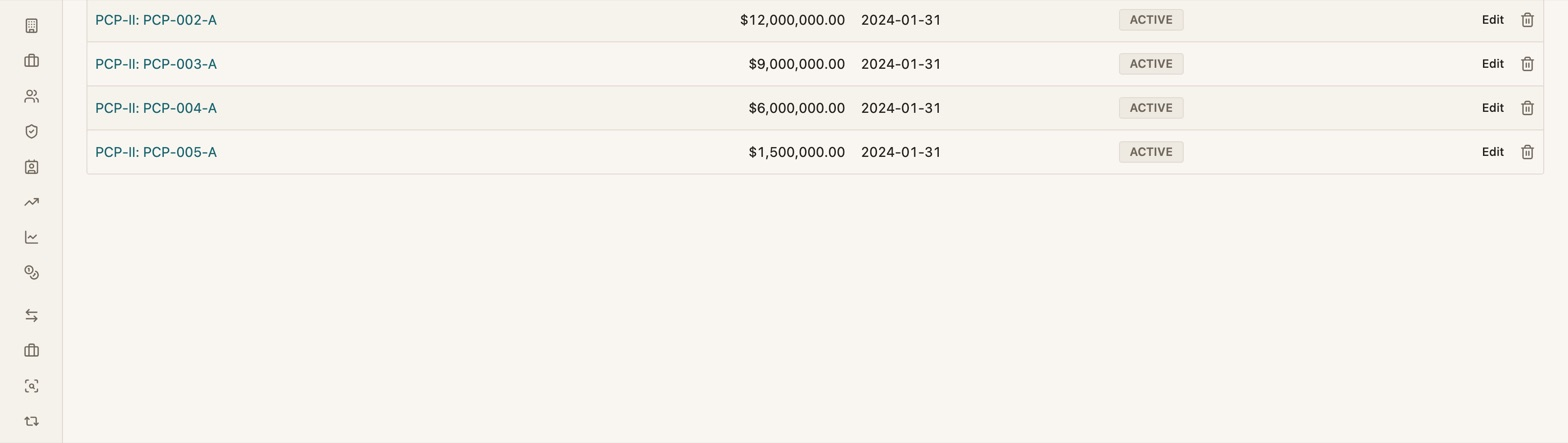
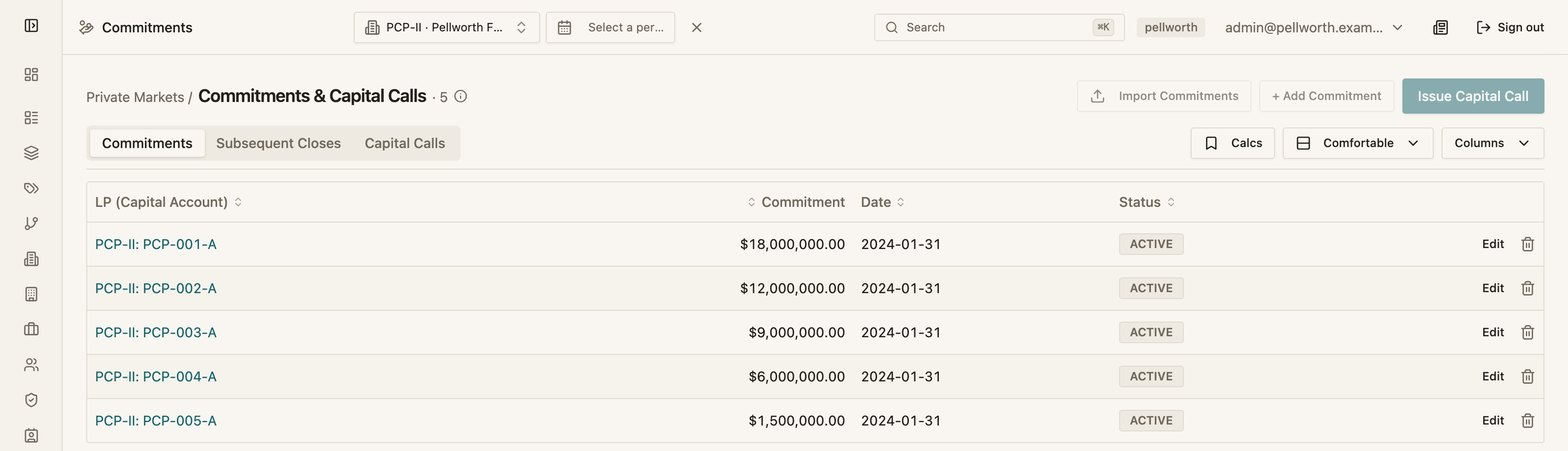
Three more screenshots carried the old tenant name, and three were cropped off-centre
The re-shoot published earlier today covered four images. Three more - the
balance sheet, the gross-to-net fee disclosure and the ILPA capital account -
came from the same tenant and were missed, because the index that mapped shots
to tenants did not record them. They were live on the private-equity and
fund-administration pages as well as the landing page.

Separately, the crop used to size the first four centred instead of
top-aligning, so two opened mid-row and one showed a header sliced in half.
All seven now open on the app header.

Numbers are unchanged throughout - the book is deterministic - so no caption or
alt text moved. Image height attributes across every page were also swept
against the real files; thirteen were wrong, seven of them from before today,
and each was shifting layout as the image loaded.

diff --git a/index.html b/index.html
@@ -670,7 +670,7 @@ footer.site{border-top:1px solid var(--rule);padding:34px 0 56px;margin-top:clam
     </p>
 
     <figure class="shot">
-      <img src="/assets/screens/capital-accounts.jpg" width="1568" height="823"
+      <img src="/assets/screens/capital-accounts.jpg" width="1568" height="828"
            loading="lazy" decoding="async"
            alt="Capital accounts for a drawdown fund: $46.5m committed, $37.2m called, $9.3m uncalled, with per-LP rows and a stated recycling policy.">
       <figcaption>
@@ -698,7 +698,7 @@ footer.site{border-top:1px solid var(--rule);padding:34px 0 56px;margin-top:clam
 
     <div class="shots">
       <figure class="shot">
-        <img src="/assets/screens/capital-calls.jpg" width="1568" height="498"
+        <img src="/assets/screens/capital-calls.jpg" width="1568" height="505"
              loading="lazy" decoding="async"
              alt="Eight quarterly capital calls of $4,650,000 each, every one marked FUNDED.">
         <figcaption>
@@ -708,7 +708,7 @@ footer.site{border-top:1px solid var(--rule);padding:34px 0 56px;margin-top:clam
         </figcaption>
       </figure>
       <figure class="shot">
-        <img src="/assets/screens/commitments.jpg" width="1568" height="443"
+        <img src="/assets/screens/commitments.jpg" width="1568" height="451"
              loading="lazy" decoding="async"
              alt="Five LP commitments struck at a first close, each ACTIVE, with commitment amounts and dates.">
         <figcaption>
@@ -718,7 +718,7 @@ footer.site{border-top:1px solid var(--rule);padding:34px 0 56px;margin-top:clam
         </figcaption>
       </figure>
       <figure class="shot">
-        <img src="/assets/screens/dashboard-drawdown.jpg" width="1568" height="921"
+        <img src="/assets/screens/dashboard-drawdown.jpg" width="1568" height="926"
              loading="lazy" decoding="async"
              alt="A drawdown fund dashboard showing NAV, committed, called, distributed, position value and fees accrued.">
         <figcaption>
@@ -759,13 +759,13 @@ footer.site{border-top:1px solid var(--rule);padding:34px 0 56px;margin-top:clam
     </div>
 
     <figure class="shot">
-      <img src="/assets/screens/ilpa-capital-account.jpg" width="1485" height="560"
+      <img src="/assets/screens/ilpa-capital-account.jpg" width="1485" height="613"
            loading="lazy" decoding="async" alt="The ILPA Capital Account statement, ILPA Reporting Template v2.0, with a notes panel explaining which rows cannot be sourced and why.">
       <figcaption><b>The ILPA template, and a panel saying what it cannot source.</b> Carried interest accrued is zero because this fund has no active waterfall policy, so no hypothetical liquidation can be run, and the page says so. ILPA requires every field to be present; a row this book cannot produce is emitted as zero <em>and carries the note explaining it</em>, rather than passing as a real nil.</figcaption>
     </figure>
 
     <figure class="shot">
-      <img src="/assets/screens/fee-gross-to-net.jpg" width="1485" height="700"
+      <img src="/assets/screens/fee-gross-to-net.jpg" width="1485" height="812"
            loading="lazy" decoding="async" alt="A gross-to-net fee disclosure: total gross, adjustments and net, with per-account management fee accruals beneath.">
       <figcaption><b>Gross to net, per accrual.</b> Each posted fee keeps its own locked step sequence - gross, then offsets, waivers and rebates, then net - read back from the snapshot taken when it was calculated, never recomputed on the way to the screen.</figcaption>
     </figure>

diff --git a/private-equity-fund-accounting/index.html b/private-equity-fund-accounting/index.html
@@ -125,7 +125,7 @@
     </ul>
 
     <figure class="shot">
-      <img src="/assets/screens/capital-accounts.jpg" width="1568" height="664"
+      <img src="/assets/screens/capital-accounts.jpg" width="1568" height="828"
            loading="lazy" decoding="async" alt="Capital accounts for a drawdown fund: $46.5m committed, $37.2m called, $9.3m uncalled, with per-LP rows and a stated recycling policy.">
       <figcaption><b>$46.5m committed, $37.2m called, $9.3m still uncalled.</b> Per limited partner and in total, with recallable capital and the fund's recycling policy stated rather than assumed.</figcaption>
     </figure>
@@ -170,7 +170,7 @@
     </p>
 
     <figure class="shot">
-      <img src="/assets/screens/capital-calls.jpg" width="1568" height="508"
+      <img src="/assets/screens/capital-calls.jpg" width="1568" height="505"
            loading="lazy" decoding="async" alt="Eight quarterly capital calls of $4,650,000 each, every one marked FUNDED.">
       <figcaption><b>Eight quarterly calls, each with its purpose and funding state.</b> The schedule is the audit trail: what was drawn, for what, and whether it arrived.</figcaption>
     </figure>
@@ -184,13 +184,13 @@
     </p>
 
     <figure class="shot">
-      <img src="/assets/screens/dashboard-drawdown.jpg" width="1568" height="566"
+      <img src="/assets/screens/dashboard-drawdown.jpg" width="1568" height="926"
            loading="lazy" decoding="async" alt="A drawdown fund dashboard showing NAV, committed, called, distributed, position value and fees accrued.">
       <figcaption><b>Committed, called and distributed replace the open-end tiles.</b> Off the fund's own funding model, not a configuration flag.</figcaption>
     </figure>
 
     <figure class="shot">
-      <img src="/assets/screens/balance-sheet.jpg" width="1485" height="690"
+      <img src="/assets/screens/balance-sheet.jpg" width="1485" height="534"
            loading="lazy" decoding="async"
            alt="A balance sheet for a drawdown fund: operating cash, investments in underlying funds, accrued fees payable, capital contributions and allocated members' capital, footing to $41,960,905.72 on both sides.">
       <figcaption>
@@ -209,7 +209,7 @@
       indistinguishable from a real nil.
     </p>
     <figure class="shot">
-      <img src="/assets/screens/ilpa-capital-account.jpg" width="1485" height="560"
+      <img src="/assets/screens/ilpa-capital-account.jpg" width="1485" height="613"
            loading="lazy" decoding="async" alt="The ILPA Capital Account statement with a notes panel explaining which rows cannot be sourced and why.">
       <figcaption><b>Every unsourceable row carries the note explaining it.</b> Carried interest accrued is zero here because the fund has no active waterfall policy, so no hypothetical liquidation can be run - and the statement says exactly that rather than letting the zero pass as a fact.</figcaption>
     </figure>

diff --git a/fund-administration-software/index.html b/fund-administration-software/index.html
@@ -151,7 +151,7 @@
     </figure>
 
     <figure class="shot">
-      <img src="/assets/screens/fee-gross-to-net.jpg" width="1485" height="700"
+      <img src="/assets/screens/fee-gross-to-net.jpg" width="1485" height="812"
            loading="lazy" decoding="async" alt="A gross-to-net fee disclosure with total gross, adjustments and net, and per-account management fee accruals beneath.">
       <figcaption><b>Gross to net, per accrual, per client.</b> Each posted fee keeps the locked step sequence it was calculated with - gross, then offsets, waivers and rebates, then net - read back from that snapshot rather than recomputed later against terms that may since have changed.</figcaption>
     </figure>

diff --git a/notes/abor-and-ibor/index.html b/notes/abor-and-ibor/index.html
@@ -245,7 +245,7 @@
     </ul>
 
     <figure class="shot">
-      <img src="/assets/screens/statement-of-changes.jpg" width="1568" height="600"
+      <img src="/assets/screens/statement-of-changes.jpg" width="1568" height="596"
            loading="lazy" decoding="async"
            alt="A Statement of Changes in Partners' Capital, with beginning capital, contributions, allocations and ending capital.">
       <figcaption>
